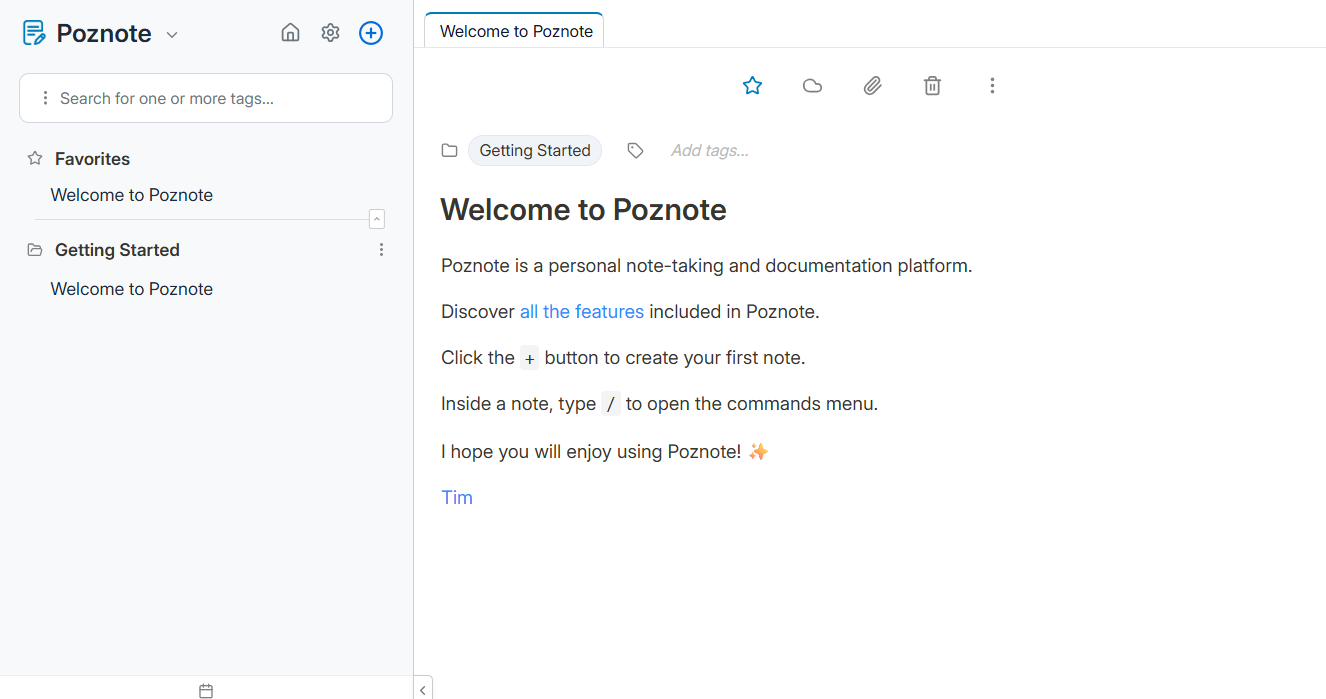
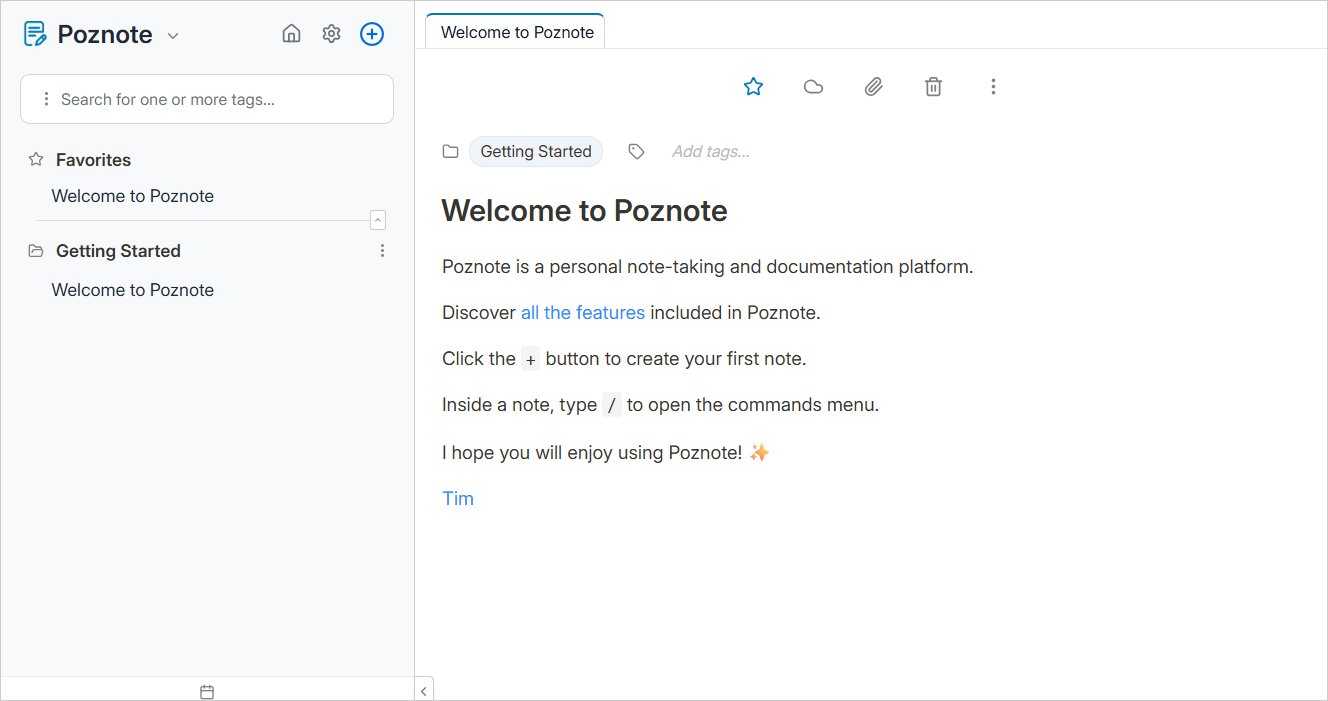
fix: Remove border from Poznote light image for a cleaner appearance

diff --git a/README.md b/README.md
@@ -17,7 +17,7 @@ Poznote is a personal note-taking and documentation platform.<br><br>
 </h3>
 
 <p align="center">
-  <img src="images/poznote-light.png" alt="Poznote-light" width="100%" style="border: 1px solid #ccc;">
+  <img src="images/poznote-light.png" alt="Poznote-light" width="100%">
 </p>
 
 <p align="center">
